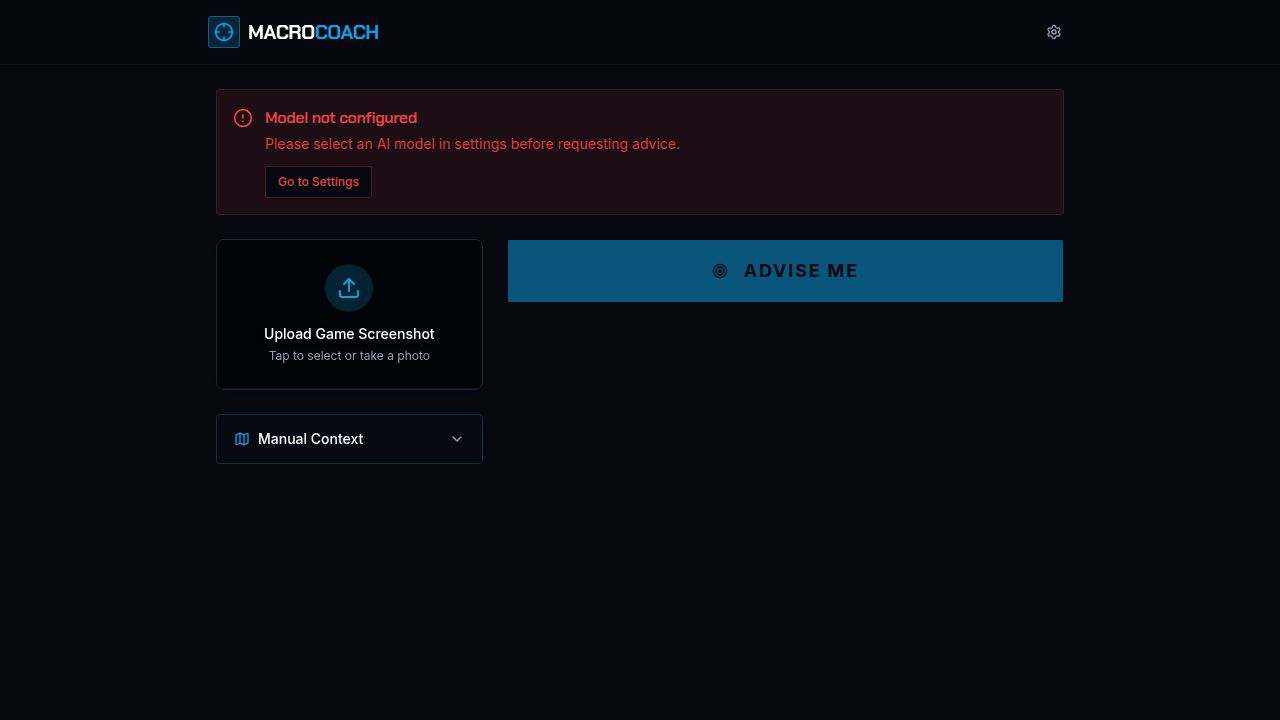
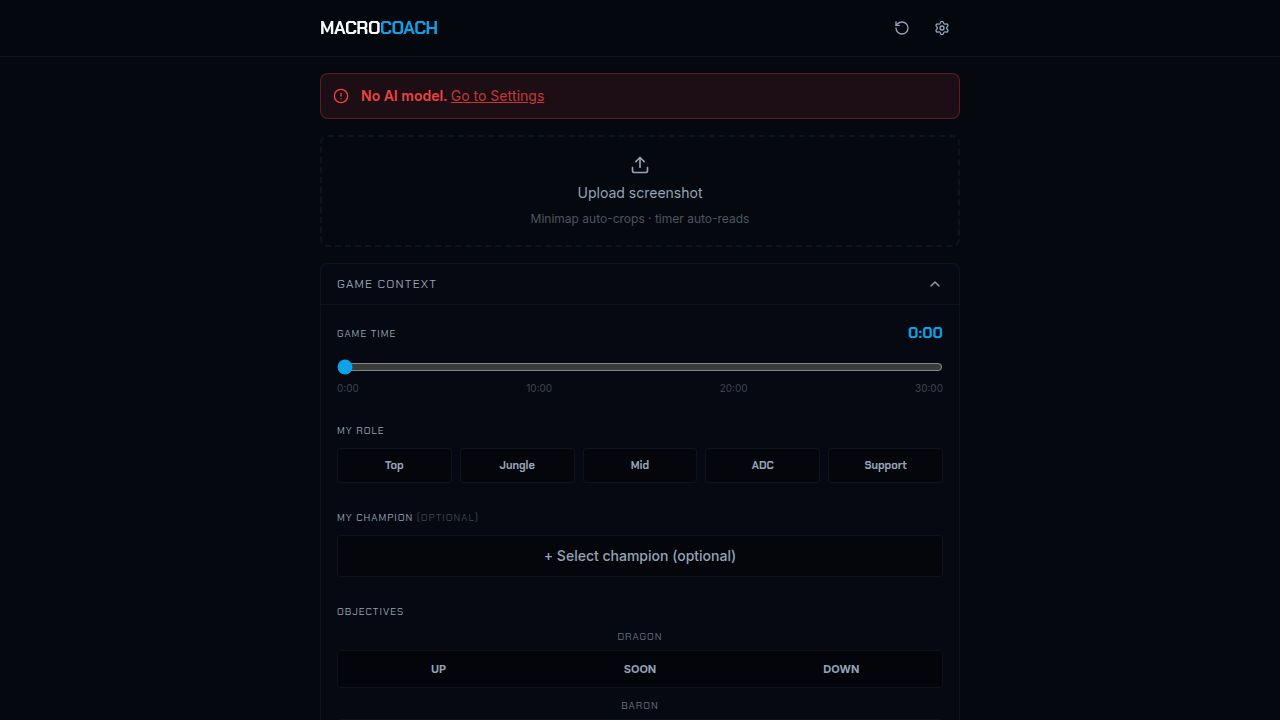
Allow users to use their own API keys for the AI assistant
Update the AI client to prioritize the user-provided OPENROUTER_API_KEY for direct integration with OpenRouter, falling back to Replit's proxy if the user's key is not present.

Replit-Commit-Author: Agent
Replit-Commit-Session-Id: ba2efe64-b824-483f-8606-a697024a6c78
Replit-Commit-Checkpoint-Type: full_checkpoint
Replit-Commit-Event-Id: b5345a15-44f3-4b5d-9905-b79b903794d5
Replit-Commit-Screenshot-Url: https://storage.googleapis.com/screenshot-production-us-central1/62104534-8fd2-4870-9351-636f22cce47f/ba2efe64-b824-483f-8606-a697024a6c78/yw8dF23
Replit-Helium-Checkpoint-Created: true

diff --git a/lib/integrations-openrouter-ai/src/client.ts b/lib/integrations-openrouter-ai/src/client.ts
@@ -1,18 +1,27 @@
 import OpenAI from "openai";
 
-if (!process.env.AI_INTEGRATIONS_OPENROUTER_BASE_URL) {
+const apiKey = process.env.OPENROUTER_API_KEY || process.env.AI_INTEGRATIONS_OPENROUTER_API_KEY;
+const baseURL = process.env.OPENROUTER_API_KEY
+  ? "https://openrouter.ai/api/v1"
+  : process.env.AI_INTEGRATIONS_OPENROUTER_BASE_URL;
+
+if (!apiKey) {
   throw new Error(
-    "AI_INTEGRATIONS_OPENROUTER_BASE_URL must be set. Did you forget to provision the OpenRouter AI integration?",
+    "No OpenRouter API key found. Set OPENROUTER_API_KEY to use your own key.",
   );
 }
 
-if (!process.env.AI_INTEGRATIONS_OPENROUTER_API_KEY) {
+if (!baseURL) {
   throw new Error(
-    "AI_INTEGRATIONS_OPENROUTER_API_KEY must be set. Did you forget to provision the OpenRouter AI integration?",
+    "No OpenRouter base URL found. Set OPENROUTER_API_KEY or provision the Replit OpenRouter AI integration.",
   );
 }
 
 export const openrouter = new OpenAI({
-  baseURL: process.env.AI_INTEGRATIONS_OPENROUTER_BASE_URL,
-  apiKey: process.env.AI_INTEGRATIONS_OPENROUTER_API_KEY,
+  baseURL,
+  apiKey,
+  defaultHeaders: {
+    "HTTP-Referer": "https://wild-rift-coach.replit.app",
+    "X-Title": "Wild Rift Macro Coach",
+  },
 });